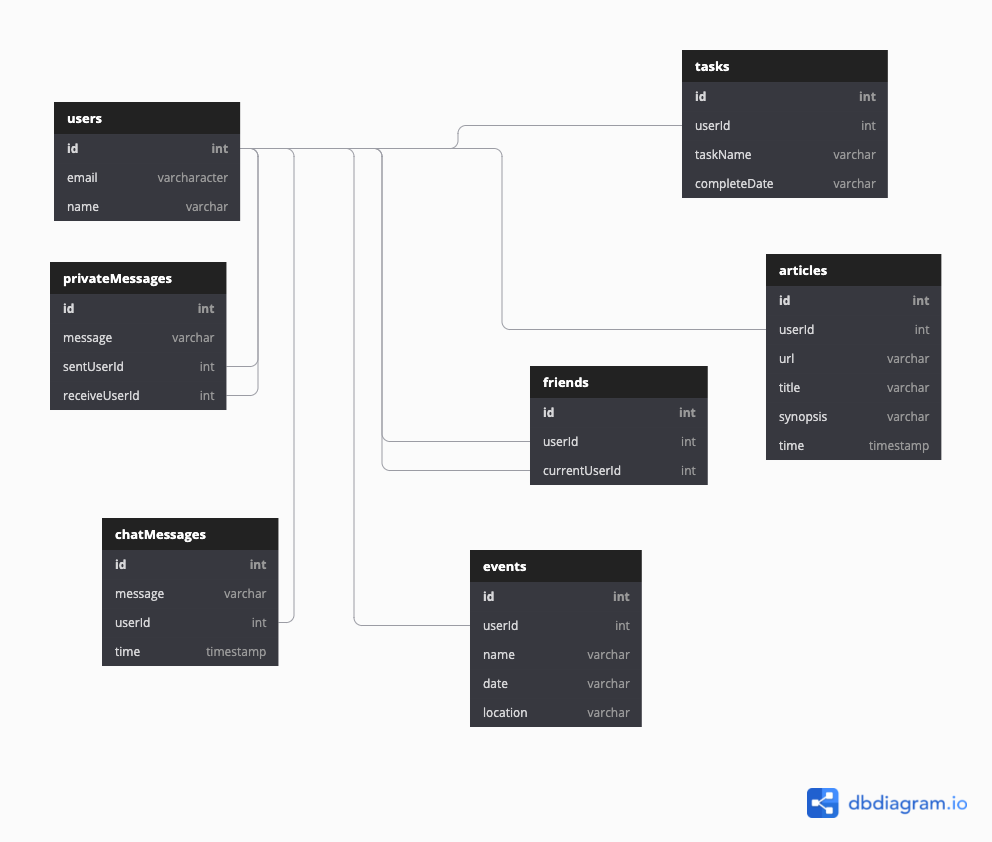
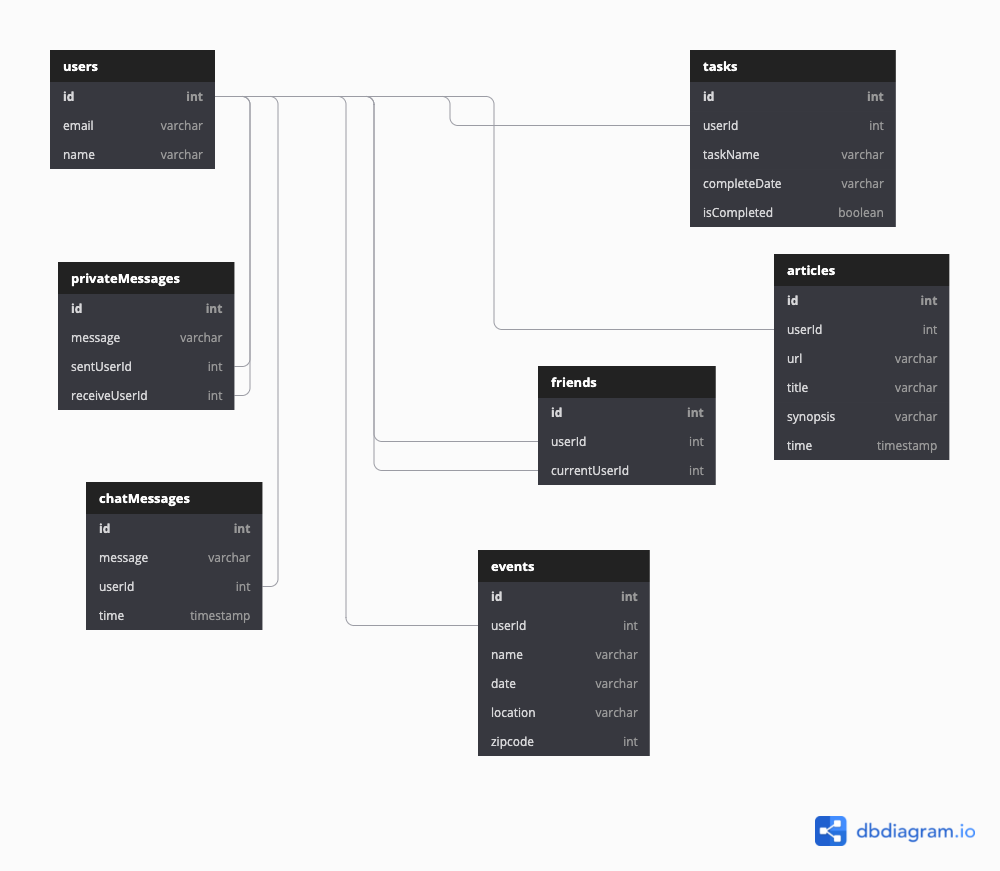
added zipcode to event entry form and added validator and if statements to check if its 5 digits

diff --git a/src/components/events/EventForm.js b/src/components/events/EventForm.js
@@ -9,7 +9,8 @@ export const EventForm = () => {
 		name: "",
 		date: "",
 		location: "",
-    userId: 0 // find out how to autopopulate userId based on login, maybe sessionStorage.getItem("nutshell_user")
+    zipcode: 0,
+    userId: parseInt(sessionStorage.getItem("nutshell_user"))
 	});
 
 	const history = useHistory();
@@ -22,7 +23,8 @@ export const EventForm = () => {
       name: "",
       date: "",
       location: "",
-      userId: 0 // find out how to autopopulate userId based on login, see above
+      zipcode: 0,
+      userId: parseInt(sessionStorage.getItem("nutshell_user"))
     });
     console.log("resetForm invoked")
   }
@@ -40,12 +42,26 @@ export const EventForm = () => {
 		setEvent(newEvent)
 	}
 
+  const FiveDigitZipCode = (zipcode) => {
+    var zipcodeformat = /^[0-9]{5}?$/;
+    if(zipcode.match(zipcodeformat)) {
+      console.log("correct zip");
+    }
+    else {
+    console.log("incorrect zip");
+    return false;
+    }
+  }
+  
+
 	const handleClickSaveEvent = (evt) => {
 		evt.preventDefault() //Prevents the browser from submitting the form
 
 		if ( event.name === "" || event.date === "" || event.location === "" ) {
 			window.alert("Please fill out all required info")
-		} else {
+    } else if ( event.zipcode.length !== 5 || FiveDigitZipCode(event.zipcode) ) {
+      window.alert("Please enter a 5 digit zipcode") 
+    } else {
 			//invoke addEvent, passing event as an argument
 			//once completed, this changes the url and displays the event list
 			addEvent(event)
@@ -72,6 +88,9 @@ export const EventForm = () => {
 
             <label htmlFor="location">Event Location:</label>
             <input type="text" id="location" onChange={handleControlledInputChange} required className="form__group--edit" placeholder="Event Location" value={event.location} />
+
+            <label htmlFor="zipcode">Event Zipcode:</label>
+            <input type="text" id="zipcode" onChange={handleControlledInputChange} required className="form__group--edit" placeholder="5 digit zipcode" />
 
           </div>
         </fieldset>

diff --git a/src/components/events/EventCard.js b/src/components/events/EventCard.js
@@ -17,6 +17,9 @@ export const EventCard = ({ event, handleDeleteEvent }) => {
 
             <div className="event__info--details"><strong>Location: </strong> {event.location}</div>
 
+            <div className="event__info--details"><strong>Zipcode: </strong> {event.zipcode}</div>
+
+
           </div>
 
           <div className="remove-item">
